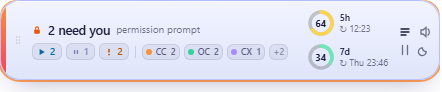
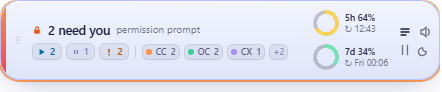
fix: label the quota figures as percentages
The rings showed a bare number, which reads as a count rather than a share.
"64%" cannot be drawn legibly inside a 30px ring, so the figure moved into the
label - "5h 64%" with the reset time under it - and the ring now carries only
the proportion.

Changed region(s): [[0.6765, 0.4783, 0.8824, 0.7609], [0.6765, 0.1087, 0.8529, 0.3913]]

diff --git a/src/components/Quota.tsx b/src/components/Quota.tsx
@@ -144,12 +144,14 @@ function Window({
             strokeDasharray={`${(circumference * pct) / 100} ${circumference}`}
           />
         </svg>
-        <span className={`text-[9px] font-bold leading-none tabular-nums ${tone.title}`}>
-          {pct.toFixed(0)}
-        </span>
       </div>
       <div className="flex flex-col leading-tight">
-        <span className={`text-[9px] font-semibold ${tone.title}`}>{label}</span>
+        {/* The figure sits in the label, not inside the ring: "52%" does not
+            fit in a 30px ring at a legible size, and a bare "52" reads as a
+            count rather than a percentage. The ring carries the proportion. */}
+        <span className={`whitespace-nowrap text-[9px] font-semibold tabular-nums ${tone.title}`}>
+          {label} {pct.toFixed(0)}%
+        </span>
         {resetsAt && (
           <span className={`whitespace-nowrap text-[9px] tabular-nums ${tone.sub}`}>
             ↻ {resetsAt}

diff --git a/README.md b/README.md
@@ -105,8 +105,10 @@ other two. After a divider come the per-harness counts; harnesses that are
 installed but idle collapse into a `+N` chip that still names them on hover.
 
 On the right sit **both Claude plan windows** - 5-hour and 7-day - each as a
-ring with the percentage inside and, under the label, the wall-clock time it
-resets (`↻ 12:22`, or `↻ Thu 23:45` when the reset is days out). A countdown
+ring paired with its figure - `5h 64%` on one line, the wall-clock reset time
+under it (`↻ 12:22`, or `↻ Fri 00:05` when the reset is days out). The
+percentage sits in the label rather than inside the ring, where `64%` cannot be
+drawn legibly at 30px and a bare `64` reads as a count. A countdown
 answers "how long"; a clock answers "when can I start again", which is the
 thing you plan around. Hovering gives both, plus which source the reading came
 from.
